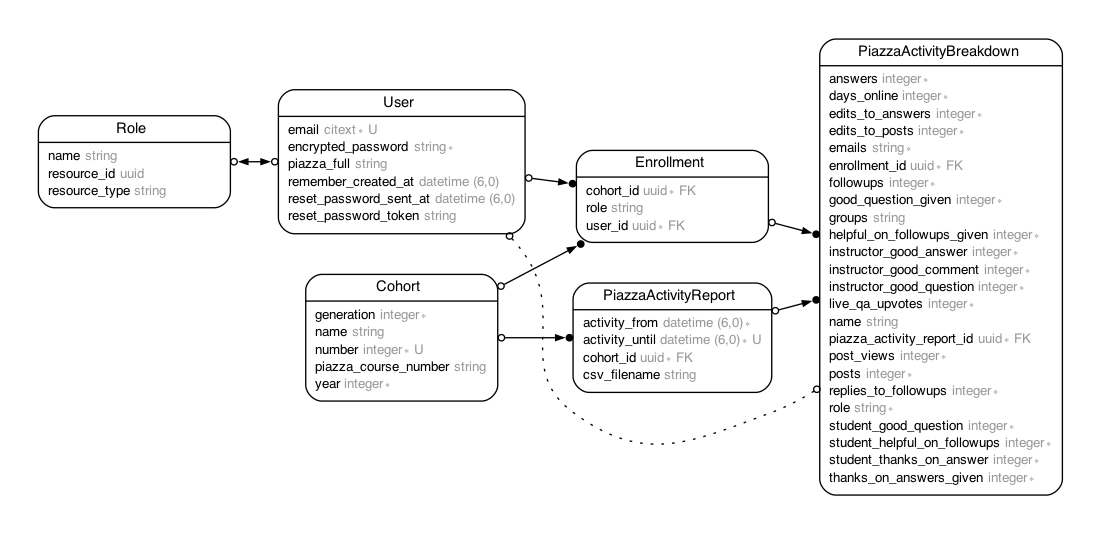
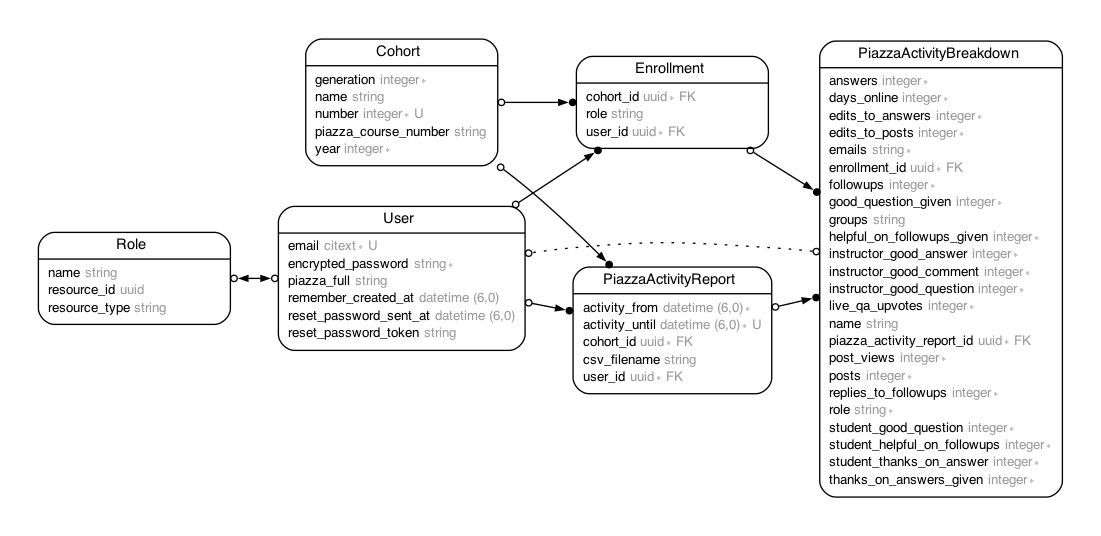
Add user_id to PiazzaActivityReport

Changed region(s): [[0.0309, 0.0599, 0.9573, 0.8989], [0.0309, 0.2097, 0.2162, 0.3895], [0.1853, 0.3596, 0.2162, 0.3895]]

diff --git a/db/schema.rb b/db/schema.rb
@@ -10,7 +10,7 @@
 #
 # It's strongly recommended that you check this file into your version control system.
 
-ActiveRecord::Schema[7.0].define(version: 2023_03_14_185645) do
+ActiveRecord::Schema[7.0].define(version: 2023_03_15_193745) do
   # These are extensions that must be enabled in order to support this database
   enable_extension "citext"
   enable_extension "pgcrypto"
@@ -74,7 +74,9 @@ ActiveRecord::Schema[7.0].define(version: 2023_03_14_185645) do
     t.uuid "cohort_id", null: false
     t.datetime "created_at", null: false
     t.datetime "updated_at", null: false
+    t.uuid "user_id", null: false
     t.index ["cohort_id"], name: "index_piazza_activity_reports_on_cohort_id"
+    t.index ["user_id"], name: "index_piazza_activity_reports_on_user_id"
   end
 
   create_table "roles", id: :uuid, default: -> { "gen_random_uuid()" }, force: :cascade do |t|
@@ -111,4 +113,5 @@ ActiveRecord::Schema[7.0].define(version: 2023_03_14_185645) do
   add_foreign_key "piazza_activity_breakdowns", "enrollments"
   add_foreign_key "piazza_activity_breakdowns", "piazza_activity_reports"
   add_foreign_key "piazza_activity_reports", "cohorts"
+  add_foreign_key "piazza_activity_reports", "users"
 end

diff --git a/app/models/piazza_activity_report.rb b/app/models/piazza_activity_report.rb
@@ -9,19 +9,23 @@
 #  created_at     :datetime         not null
 #  updated_at     :datetime         not null
 #  cohort_id      :uuid             not null
+#  user_id        :uuid             not null
 #
 # Indexes
 #
 #  index_piazza_activity_reports_on_cohort_id  (cohort_id)
+#  index_piazza_activity_reports_on_user_id    (user_id)
 #
 # Foreign Keys
 #
 #  fk_rails_...  (cohort_id => cohorts.id)
+#  fk_rails_...  (user_id => users.id)
 #
 class PiazzaActivityReport < ApplicationRecord
   attr_accessor :csv_file
 
   belongs_to :cohort
+  belongs_to :user
 
   has_many :piazza_activity_breakdowns, dependent: :destroy
 

diff --git a/spec/models/piazza_activity_report_spec.rb b/spec/models/piazza_activity_report_spec.rb
@@ -9,14 +9,17 @@
 #  created_at     :datetime         not null
 #  updated_at     :datetime         not null
 #  cohort_id      :uuid             not null
+#  user_id        :uuid             not null
 #
 # Indexes
 #
 #  index_piazza_activity_reports_on_cohort_id  (cohort_id)
+#  index_piazza_activity_reports_on_user_id    (user_id)
 #
 # Foreign Keys
 #
 #  fk_rails_...  (cohort_id => cohorts.id)
+#  fk_rails_...  (user_id => users.id)
 #
 require "rails_helper"
 

diff --git a/app/controllers/piazza_activity_reports_controller.rb b/app/controllers/piazza_activity_reports_controller.rb
@@ -41,7 +41,7 @@ class PiazzaActivityReportsController < ApplicationController
 
   # POST /piazza_activity_reports or /piazza_activity_reports.json
   def create
-    @piazza_activity_report = PiazzaActivityReport.new(piazza_activity_report_params)
+    @piazza_activity_report = PiazzaActivityReport.new(piazza_activity_report_params.merge(user: current_user))
 
     respond_to do |format|
       if @piazza_activity_report.save

diff --git a/app/models/user.rb b/app/models/user.rb
@@ -26,4 +26,8 @@ class User < ApplicationRecord
   has_many :enrollments, dependent: :destroy
 
   has_many :cohorts, through: :enrollments, source: :cohort
+
+  def to_s
+    piazza_full || email
+  end
 end

diff --git a/db/migrate/20230315193745_add_user_id_to_piazza_activity_reports.rb b/db/migrate/20230315193745_add_user_id_to_piazza_activity_reports.rb
@@ -1,0 +1,5 @@
+class AddUserIdToPiazzaActivityReports < ActiveRecord::Migration[7.0]
+  def change
+    add_reference :piazza_activity_reports, :user, null: false, foreign_key: true, type: :uuid
+  end
+end
